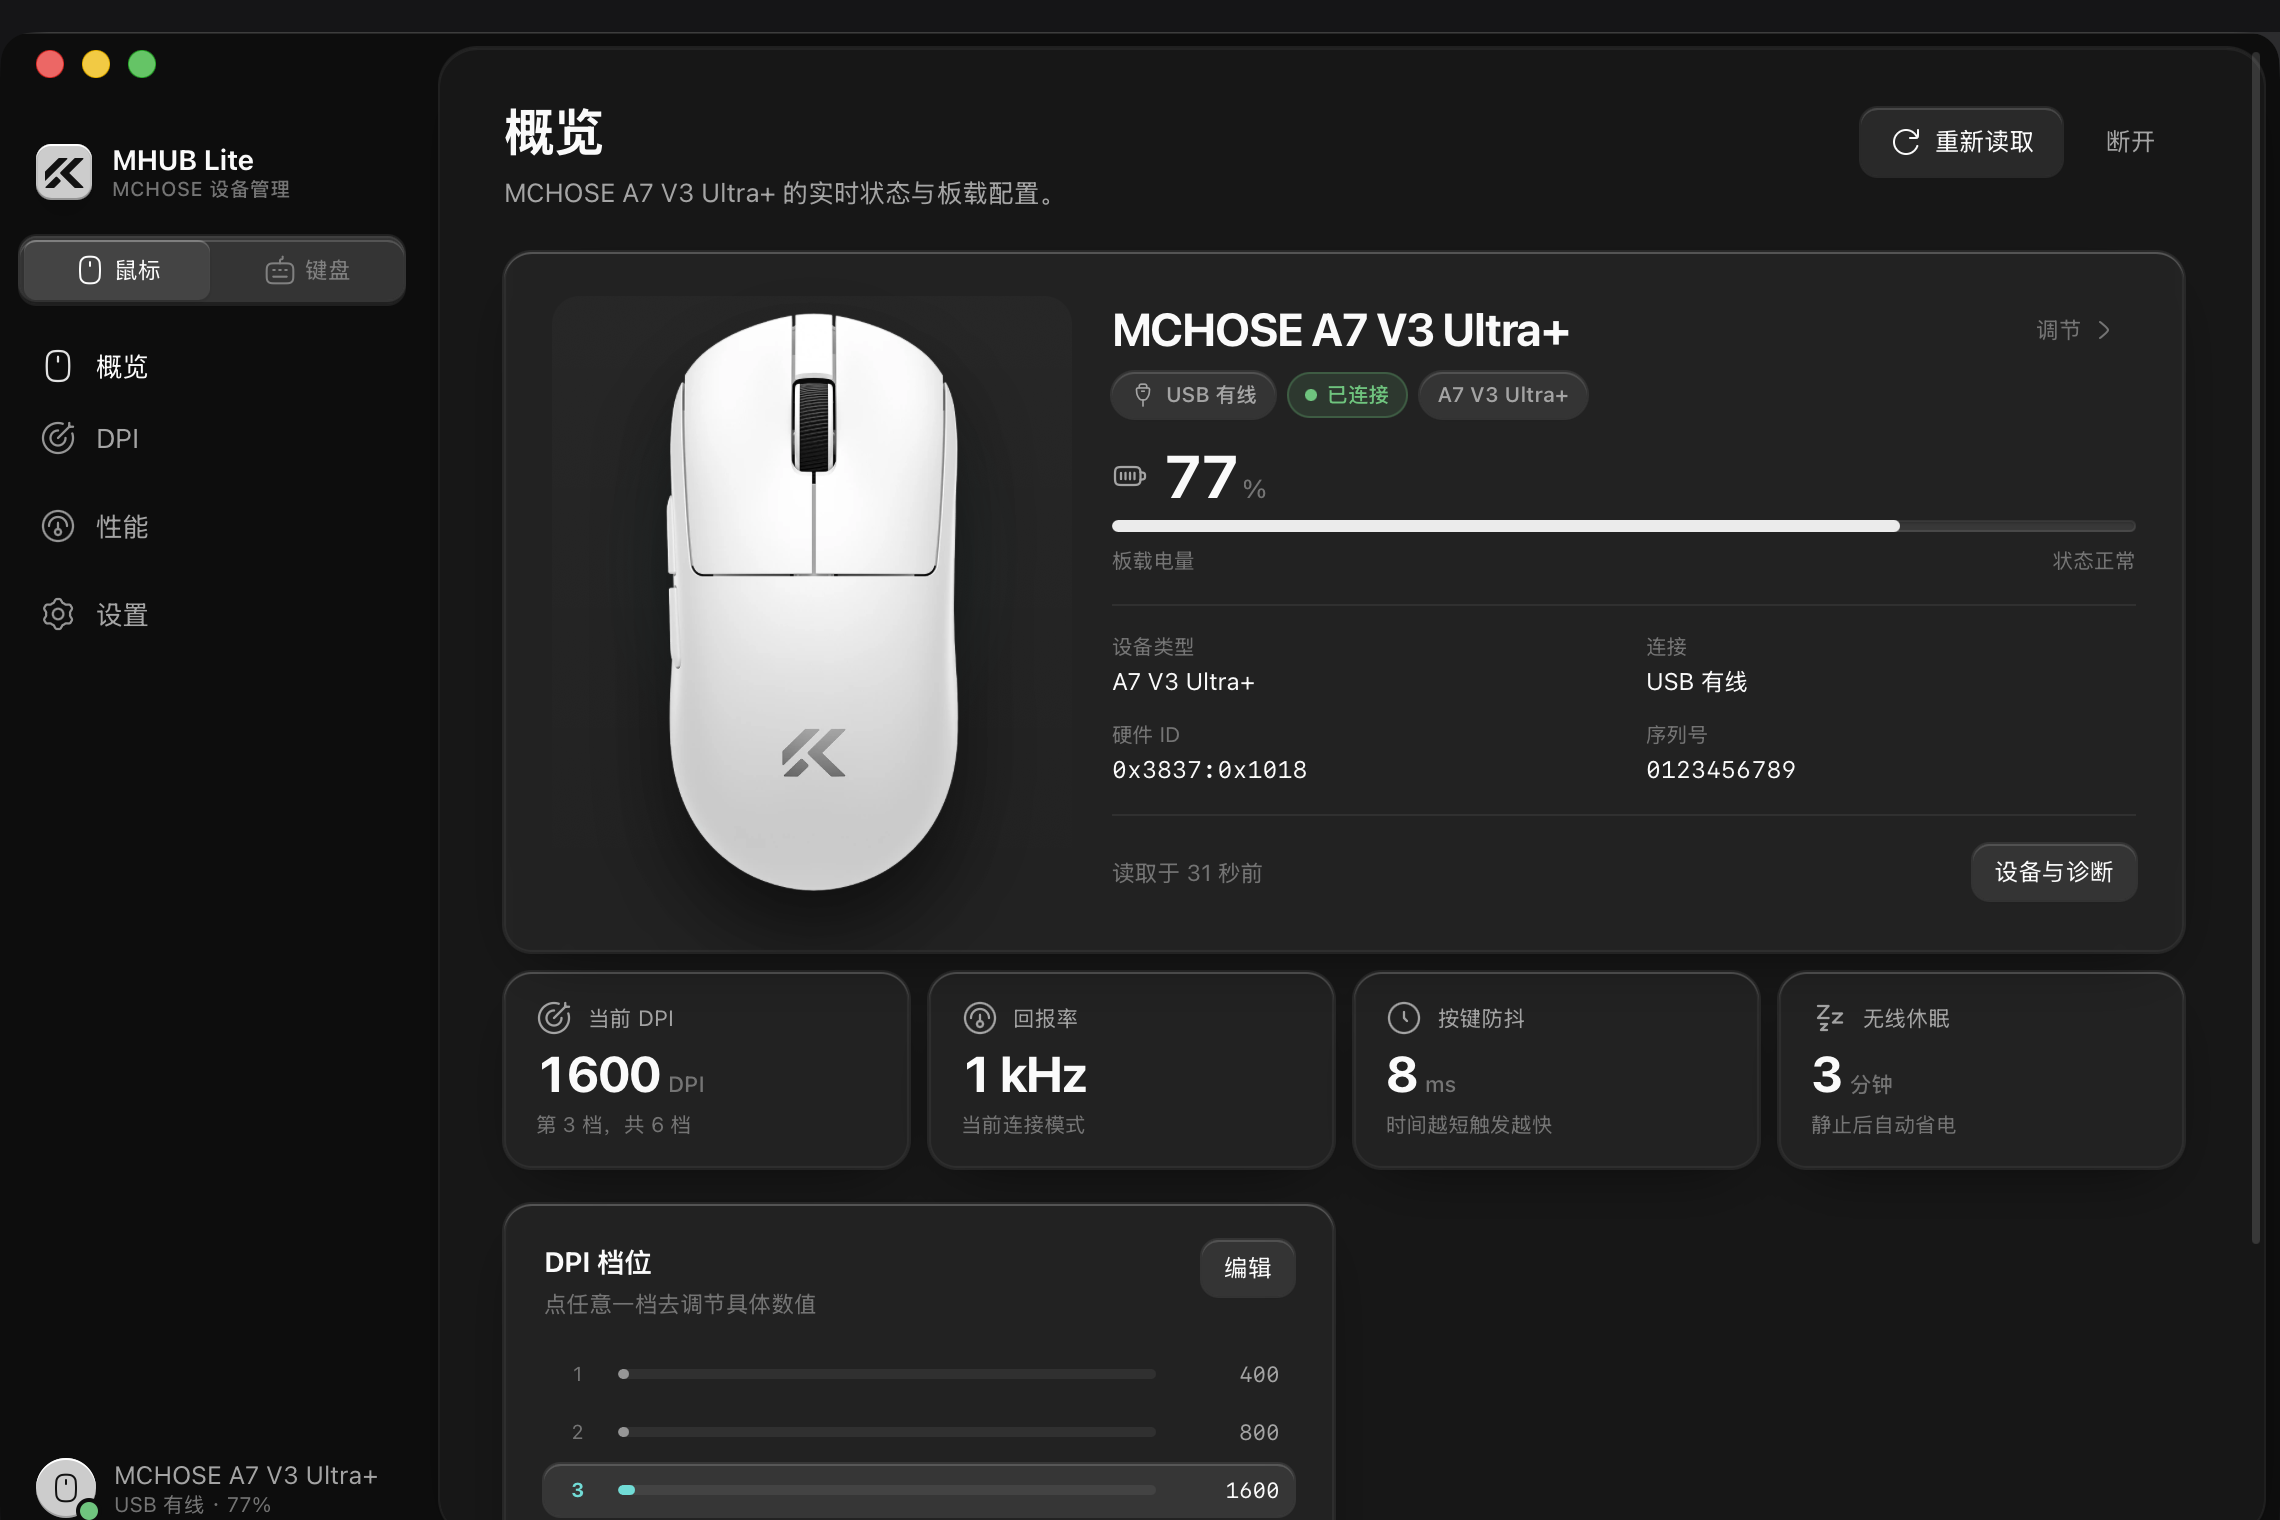
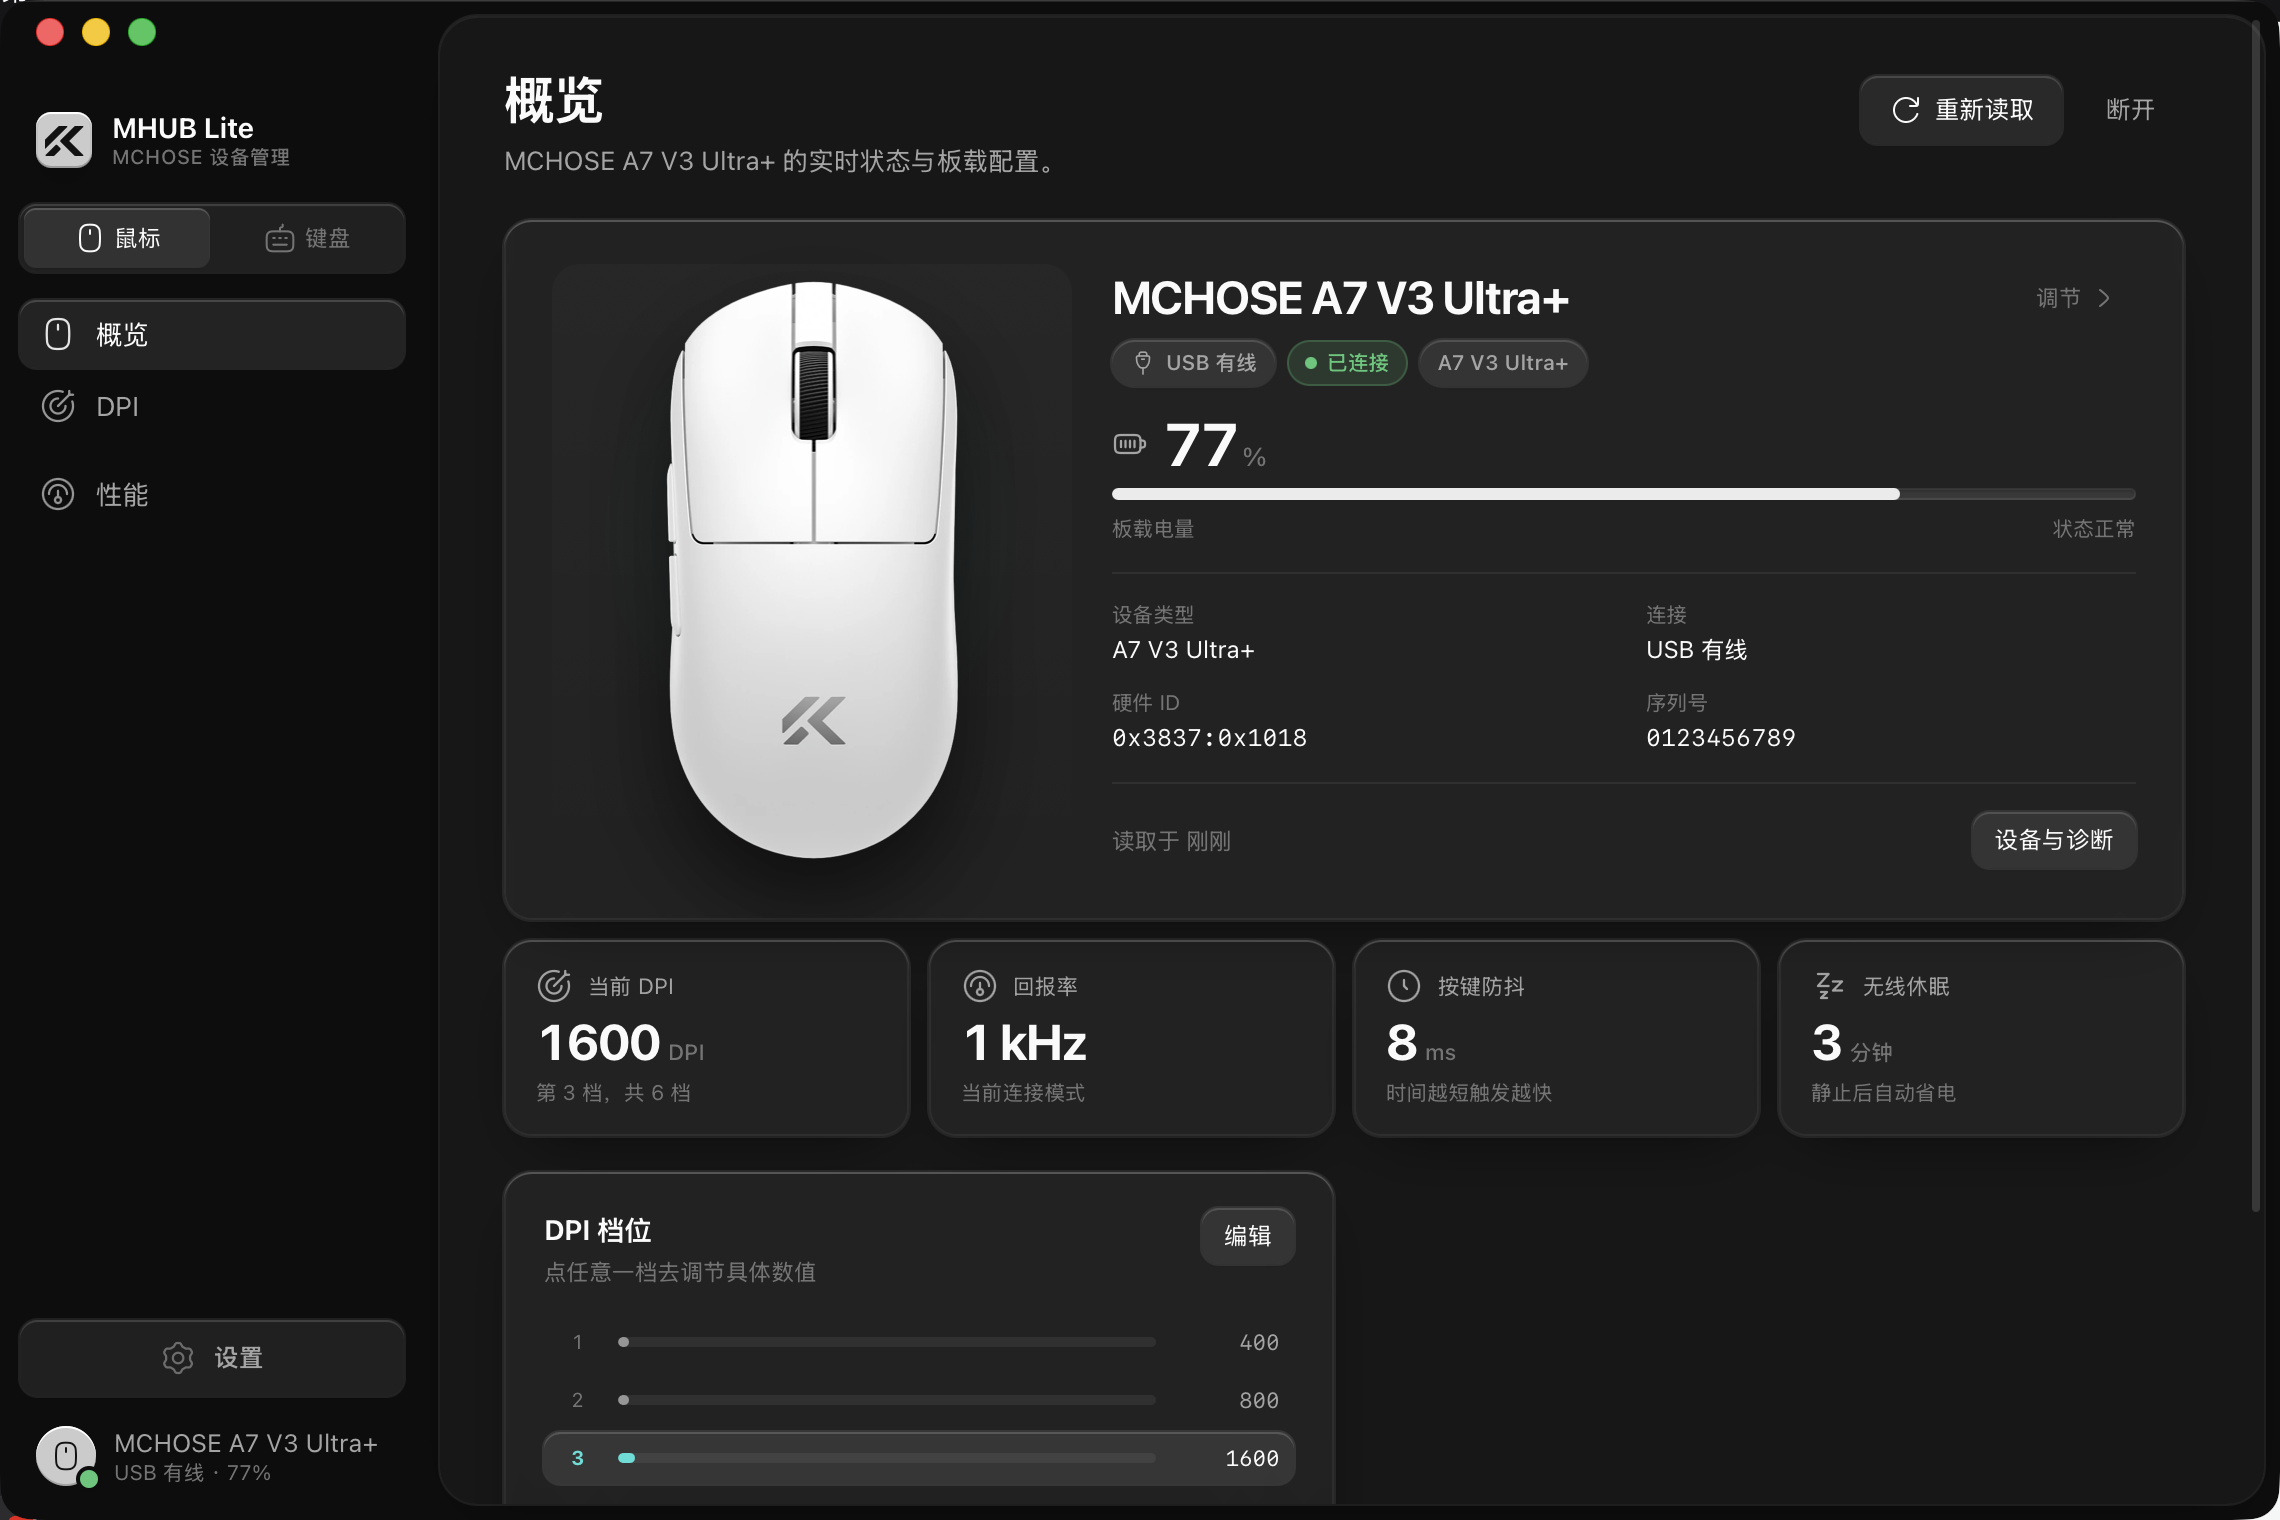
fix(sidebar): move settings to a footer button
Settings is no longer a nav item: it is a distinct glass button above the device footer, with its own active treatment and no interaction with the nav indicator. The nav measurement now only queries .side-nav buttons.

Also key the footer device icon by active device so switching between mouse and keyboard replaces the Hugeicons component instead of keeping the initial mouse icon.

Refresh the mouse, keyboard, and settings screenshots and document the new placement.

diff --git a/src/App.svelte b/src/App.svelte
@@ -40,7 +40,7 @@
   function measureNav() {
     const aside = asideEl;
     if (!aside) return;
-    const btn = aside.querySelector<HTMLElement>('button.on');
+    const btn = aside.querySelector<HTMLElement>('.side-nav button.on');
     if (!btn) {
       indShow = false;
       return;
@@ -122,8 +122,6 @@
       : []),
   ]);
 
-  const navOther: NavItem[] = [{ name: 'settings', label: '设置', icon: icons.settings }];
-
   const activeNav = $derived(router.route);
   const info = $derived(activeInfo());
   const battery = $derived(activeBattery());
@@ -201,22 +199,27 @@
           </button>
         {/each}
       {/if}
-      <div class="nav-sep" aria-hidden="true"></div>
-      {#each navOther as n (n.name)}
-        <button class:on={activeNav === n.name} onclick={() => go(n.name)}>
-          <span class="ico"><HugeiconsIcon icon={n.icon} size={ICON_SIZE.control} /></span>
-          {n.label}
-        </button>
-      {/each}
     </nav>
 
     <div class="side-foot">
+      <button
+        class="settings-btn"
+        class:is-active={activeNav === 'settings'}
+        onclick={() => go('settings')}
+        aria-current={activeNav === 'settings' ? 'page' : undefined}
+        title="打开设置"
+      >
+        <span class="ico"><HugeiconsIcon icon={icons.settings} size={ICON_SIZE.control} /></span>
+        <span>设置</span>
+      </button>
+
       <button class="foot" onclick={() => go('overview')} title="查看设备概览">
         <span class="avatar" class:on={online}>
-          <HugeiconsIcon
-            icon={device.active === 'keyboard' ? icons.keyboard : icons.mouse}
-            size={ICON_SIZE.inline}
-          />
+          {#if device.active === 'keyboard'}
+            <HugeiconsIcon icon={icons.keyboard} size={ICON_SIZE.inline} />
+          {:else}
+            <HugeiconsIcon icon={icons.mouse} size={ICON_SIZE.inline} />
+          {/if}
           <i class="avatar-dot" class:on={online} class:saving={device.saveState === 'saving'}></i>
         </span>
         <span class="foot-meta">

diff --git a/src/app.css b/src/app.css
@@ -839,6 +839,60 @@ input[type='range']:disabled {
 .side-foot {
   margin-top: auto;
   padding-top: 14px;
+  display: flex;
+  flex-direction: column;
+  gap: 8px;
+}
+
+/* 设置是设备脚注上方的独立按钮，不是导航项：实心玻璃、描边、右侧箭头。 */
+.settings-btn {
+  display: flex;
+  align-items: center;
+  gap: 9px;
+  width: 100%;
+  height: 38px;
+  padding: 0 12px;
+  border-radius: 9px;
+  background-color: var(--glass-control);
+  box-shadow:
+    inset 0 1px 0 var(--glass-control-rim),
+    0 0 0 1px var(--glass-edge),
+    0 1px 2px var(--glass-contact);
+  color: var(--fg2);
+  justify-content: center;
+  font-size: 12.5px;
+  font-weight: 600;
+  text-align: center;
+  transition:
+    background-color 140ms ease-out,
+    color 140ms ease-out,
+    box-shadow 140ms ease-out;
+}
+
+.settings-btn:hover {
+  background-color: var(--hover);
+  color: var(--fg);
+}
+
+.settings-btn.is-active {
+  background-color: color-mix(in oklch, var(--brand) 10%, var(--glass-control));
+  box-shadow:
+    inset 0 1px 0 var(--glass-control-rim),
+    0 0 0 1px color-mix(in oklch, var(--brand) 38%, transparent),
+    0 1px 2px var(--glass-contact);
+  color: var(--fg);
+}
+
+.settings-btn .ico {
+  display: grid;
+  place-items: center;
+  width: 18px;
+  color: var(--fg3);
+}
+
+.settings-btn:hover .ico,
+.settings-btn.is-active .ico {
+  color: currentColor;
 }
 
 .foot {

diff --git a/docs/design.md b/docs/design.md
@@ -47,6 +47,14 @@
 - 品牌标记使用用户提供的 MCHOSE 单色 SVG，颜色跟随 `currentColor`，
   放在墨色方块里，深色下白、浅色下黑。
 
+### 设置按钮
+
+「设置」不参与页面导航，固定在侧栏最下方、设备脚注上方：
+
+- 一枚独立的实心玻璃按钮：齿轮 + 居中「设置」，带描边与轻微投影；
+- 当前在设置页时用品牌青着色，而不是滑动指示块；
+- 导航测量只查询 `.side-nav button.on`，不会把这枚按钮当成导航项。
+
 ### 设备切换
 
 鼠标与键盘同时连接时，品牌下方出现一块两段式玻璃：
@@ -80,8 +88,9 @@
 
 | 设备 | 页面 |
 |---|---|
-| 鼠标 | 概览、DPI、按键（仅 G3 V2）、性能、设置 |
-| 键盘 | 概览、按键、灯效、性能、设置 |
+| 鼠标 | 概览、DPI、按键（仅 G3 V2）、性能 |
+| 键盘 | 概览、按键、灯效、性能 |
+| 设置 | 侧栏底部独立按钮，不占导航 |
 
 | 页面 | 内容 | 交互重点 |
 |---|---|---|

diff --git a/README.md b/README.md
@@ -54,8 +54,9 @@
 
 鼠标和键盘可以同时连接。侧边栏顶部的「鼠标 / 键盘」开关切换当前设备，导航会随设备类型变化：
 
-- 鼠标：概览、DPI、性能、设置（G3 V2 额外有「按键」）
-- 键盘：概览、按键、灯效、性能、设置
+- 鼠标：概览、DPI、性能（G3 V2 额外有「按键」）
+- 键盘：概览、按键、灯效、性能
+- 「设置」不在导航里，而是侧栏底部、设备信息上方的一枚独立按钮
 
 ---
 
